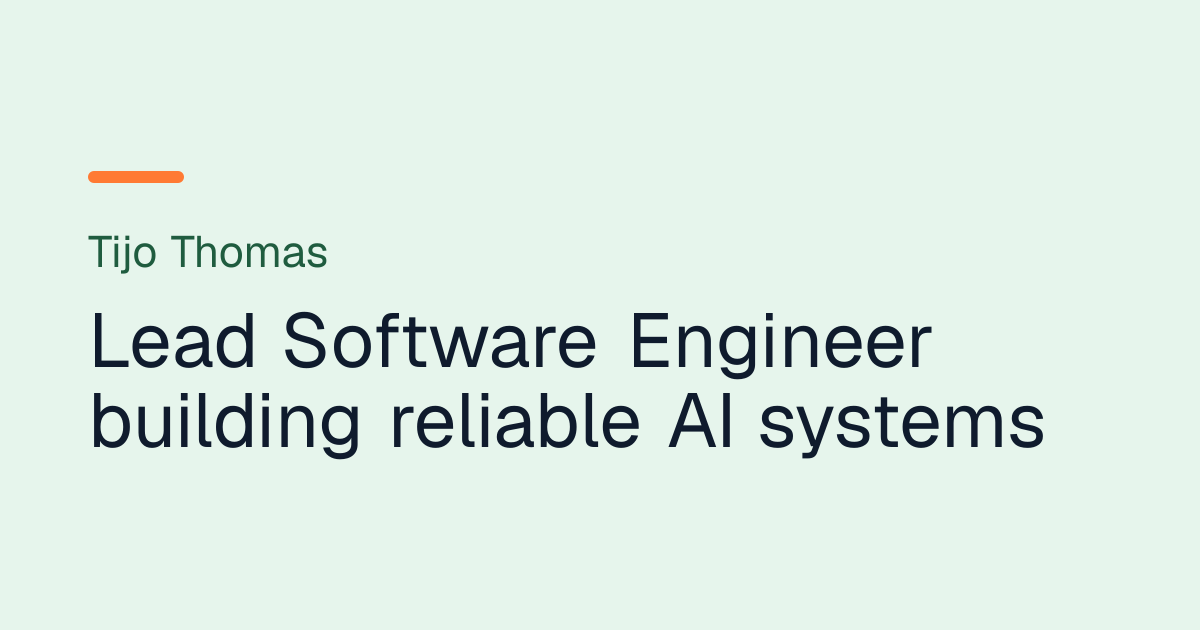
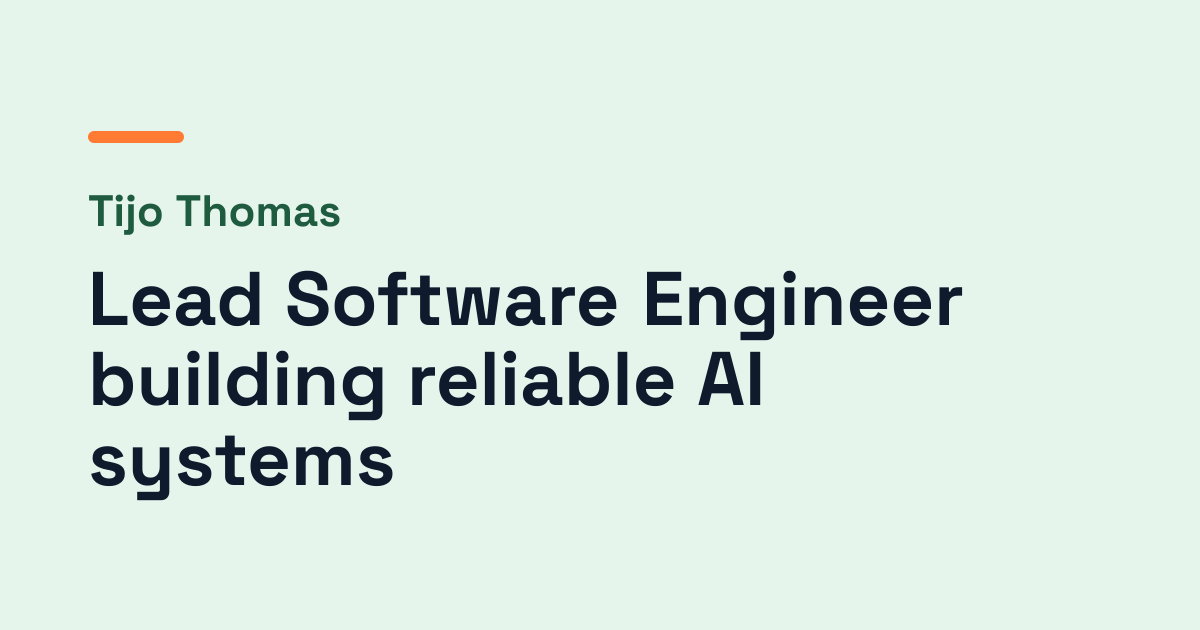
docs(U-09): PG5 approved with owner choice b; bold share image evidence

Changed region(s): [[0.0617, 0.2714, 0.8633, 0.8143], [0.0617, 0.181, 0.1542, 0.2413]]

diff --git a/edd-docs/edd-state.md b/edd-docs/edd-state.md
@@ -49,8 +49,8 @@ Order (amended 2026-11-24): U-00 → U-01 → U-03 → U-02 → U-04 → … →
 | U-06 Home shell | | done | 219 node, 284 vitest, 23 e2e | 21/21 PASS at `8607725` (new use_client, literals); EX-01 | 0 self-heal (CG14 fixed in `a773f38`) | n/a | changes-required → majors 1, 2 fixed; minors 3-5, 9, 10 fixed; 6, 7 carried to U-07/U-09 | 2026-11-24 ("C, then approve U-06") |
 | U-07 Home lists | | done | 229 node, 317 vitest, 25 e2e (+2 cursor specs, run in U-08 gates) | 22/22 PASS at `2f2507d` (view-source now enforced); EX-01. Cursor/selection CSS changed after (`30cfda9`, `f2bb71a`), so U-08's gate run covers it | 1 self-heal (CG1 Tailwind @config build race, fixed in-unit) | n/a | approve-with-minors → all 7 minors and 5 nits fixed | 2026-11-24 |
 | U-08 CityMap, motion, a11y | | done | 231 node, 327 vitest, 41 e2e | 22/22 PASS at `6dd449a`; owner choice c added afterwards and verified by build + 14 map/motion/a11y e2e (axe 0) | 1 self-heal (pii-scan viewBox false positive, e2e strict locator) | n/a | approve-with-minors → all 7 minors resolved (#3 by owner choice c: labels enlarged below 40rem) | 2026-11-25 |
-| U-09 SEO | | in-review (awaiting PG5) | 234 node, 361 vitest, 50 e2e | 23/23 PASS at `28d9fad`, Lighthouse enforced (SEO 100); EX-01 | 2 self-heal (og:image 404 and coverage; RCA-01 guard on a fixture) | n/a | changes-requested (1 blocker, 2 major) → all resolved | |
-| U-10 Privacy | | todo | | | | | | |
+| U-09 SEO | | done | 234 node, 362 vitest, 50 e2e | 23/23 PASS at `28d9fad`, Lighthouse enforced (SEO 100); owner choice b (bold font) added after, verified by build + rendered image + full suites | 2 self-heal (og:image 404 and coverage; RCA-01 guard on a fixture) | n/a | changes-requested (1 blocker, 2 major) → all resolved | 2026-11-25 |
+| U-10 Privacy | | in-progress | | | | | | |
 | U-11 Security headers + release checks | critical | todo | | | | | | |
 
 ## Spikes / RCAs

diff --git a/edd-docs/audit.md b/edd-docs/audit.md
@@ -70,3 +70,4 @@
 | 2026-11-25 | F-35 supplied | Owner sent the Opteamix work (offline field-inspection app, Dell rugged tablets, PWA offline sync, .NET WebView2, Capacitor, SQLite time and attendance). Owner chose the two-bullet wording, with "mapping" left out. F-35 is no longer withheld; recorded in 1.1-facts-resolved.md. | owner |
 | 2026-11-25 | F-35 extended | Owner sent leadership points and an award; chose three bullets (team management and AI-assisted SDLC with spec-based coaching; Jira hygiene, RCA tracking and estimation for a new module; Innovator Award from the Opteamix CEO, publishable). Recorded in 1.1-facts-resolved.md. | owner |
 | 2026-11-25 | U-09 2.1-2.4 | Orchestrator in main session; edd-reviewer in background: changes-requested (blocker: og:image 404 from a hand-written URL; majors: canonical e2e, CG5 branches), all fixed. Gate run at `28d9fad`: 23/23 PASS with Lighthouse enforced (99/100/96/100, CLS 0, LCP 921 ms). e2e 50/50. Owner actions: Rich Results test on a preview URL; decision on a bold OG font. Awaiting PG5. | orchestrator |
+| 2026-11-25 | PG5 U-09 approved | Owner: "approve b, continue". Choice b: share image in bold Space Grotesk from a committed font file (@fontsource 5.3.0 latin 700 WOFF, OFL), done in `205a3fc`; verified by a production build, the rendered image and full suites (node 234, vitest 362). U-10 starts. | owner |
